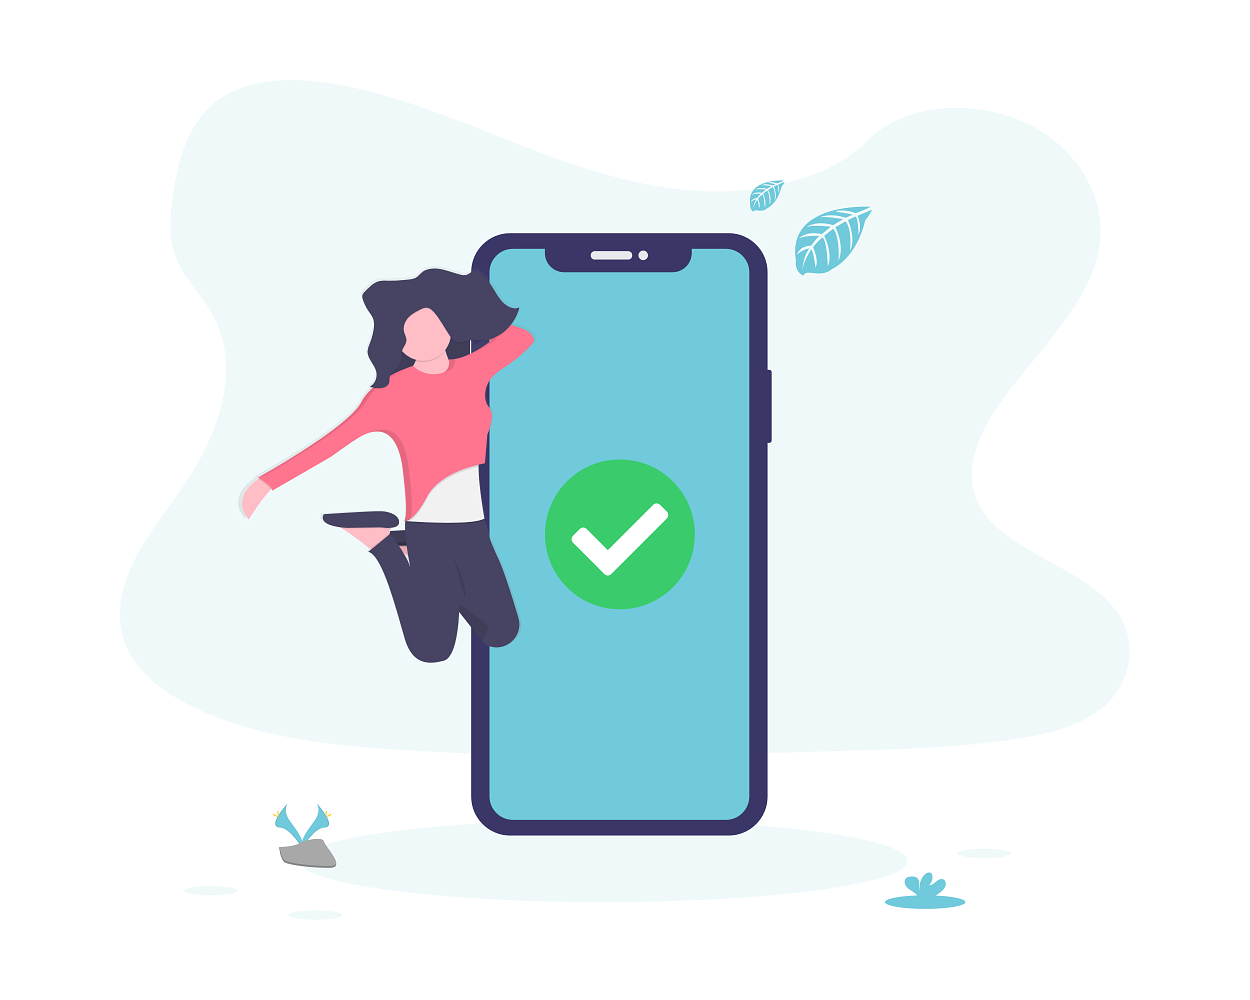
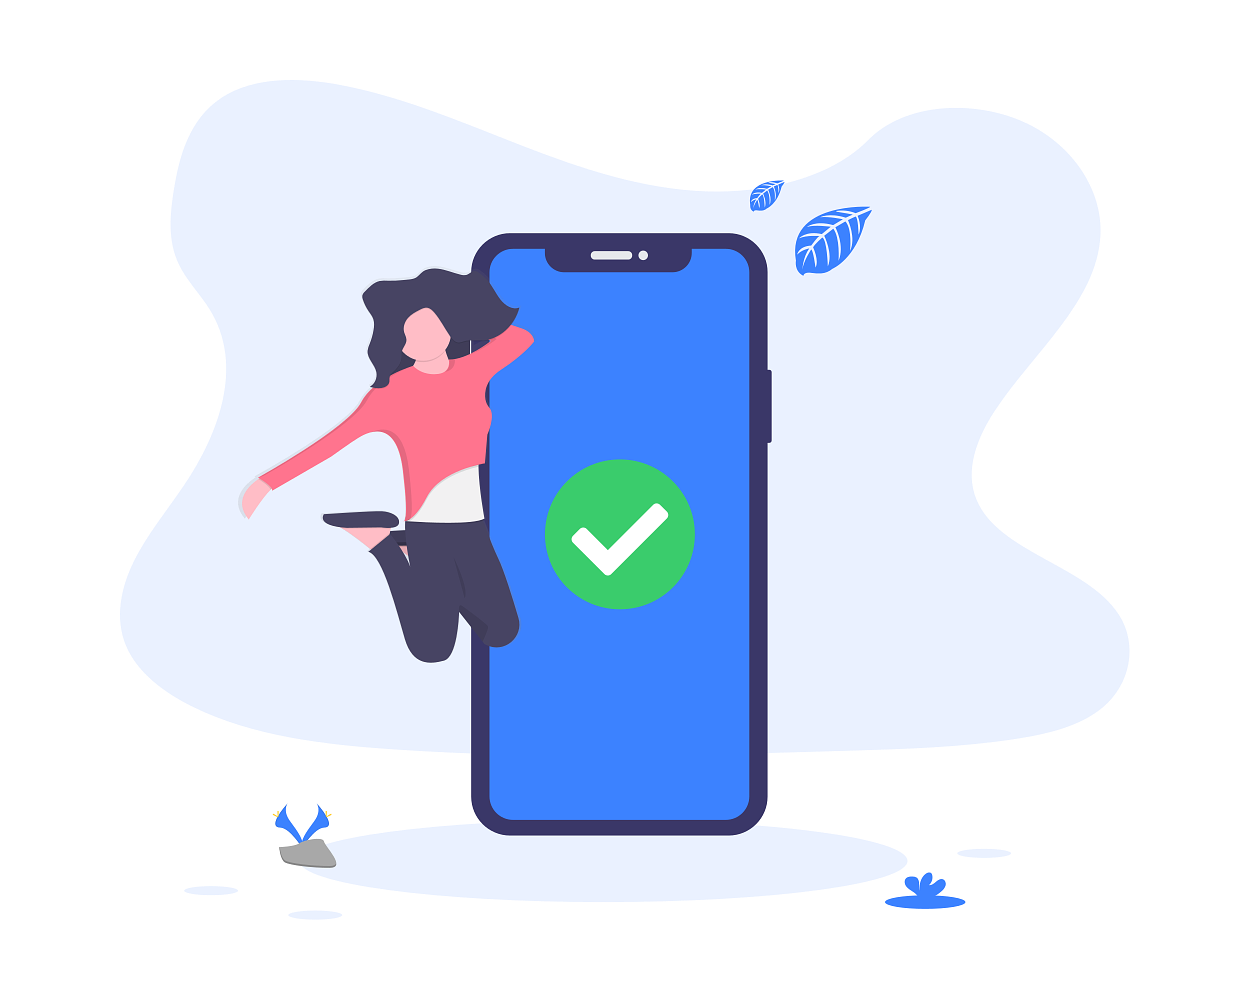
Mikypan-
Prueba con queries [thanks, direccion]

diff --git a/src/pages/thanks/thanks.scss b/src/pages/thanks/thanks.scss
@@ -1,15 +1,32 @@
 $tablet: "(min-width: 768px) and (max-width: 1023px)";
 $desktop: "(min-width: 1024px)";
+$mobilemax: "(min-width: 415px)";
+.container{
+ 
+    font-family: Roboto;
+    
 
-
+}
 #imagenHeader{
+    position: relative;
     width: 100%;
-    margin-top: -2em;
-    min-width: 1000px;
-    height: auto;
-    margin-left: -60%;
+    margin-top:8px;
+    min-width: 414px;
+    min-height: 10%;
+    margin-right: -80px;
+    left: -25px ;
+    //right:-20px;
+
+    @media #{$mobilemax} {
+    
+    min-width: 580px;
+    
+    }
+
+       
     @media #{$tablet} {
-        display: none;
+        height: 83%;
+        min-width: 823px;
       }
     
       @media #{$desktop} {
@@ -18,25 +35,28 @@ $desktop: "(min-width: 1024px)";
 }
 
 #imagenBienvenida{
-    margin-top: -15em;
-    height: 100%;
-    //width: 40%;
-    margin-left: 20%;
+    margin-top: 0px;
+    height: 60%;
+    width: 100%;
+   // margin-left: 20%;
     padding-top: 0;
+    
+
     @media #{$tablet} {
-        margin-top: -5em;
-        height: 50%;
+        position: relative;
+        top:-70px;
+        margin-top: 0px;
+        height: 70%;
         //width: 40%;
-        margin-left: 24%;
-        margin-top: -4em;
-        padding-top: 0;
+       // margin-left: 24%;
+          padding-top: 0;
     }
   
     @media #{$desktop} {
         margin-top: -10em;
         height: 40%;
         //width: 40%;
-        margin-left: 30%;
+       // margin-left: 30%;
         margin-top: -4em;
         padding-top: 0;
     }
@@ -44,18 +64,20 @@ $desktop: "(min-width: 1024px)";
 
 #ThankYou{
     text-align: center;
-    font-size:20px;
-    color:#394e62;
+    font-size:21px;
+    color: #0f1950;
+    
+
     @media #{$tablet} {
         text-align: center;
-        font-size:30px;
-        color:#394e62;
+        font-size:35px;
+        color: #0f1950;
       }
     
       @media #{$desktop} {
         text-align: center;
         font-size:30px;
-        color:#394e62;
+        color: #0f1950;
       }
 }
 #contenedorImagenPrincipal{
@@ -71,25 +93,37 @@ $desktop: "(min-width: 1024px)";
       }
 }
 #TextWelcome {
-  font-size: 12px;
+  font-size: 13px;
+  color: #0f1950;
 
   @media #{$tablet} {
-    font-size: 20px;
-    color:#394e62;
+    font-size: 25px;
+    color: #0f1950;
   }
 
   @media #{$desktop} {
     font-size: 20px;
-    color:#394e62;
+    color: #0f1950;
   }
 }
 
-#GetStartedFull{
-    text-align: center;
-    margin-top: -6em;
+#Next a{
+    font-size: 15px;
+    font-weight: bold;
+    position: relative;
+    top: 10px;
+    left:220px;
+    color: #3c82ff;
+    @media #{$mobilemax} {
+        left:260px;
+    }
+    
     @media #{$tablet} {
-        margin-top: -20em;
+        font-size: 20px;
+        position: relative;
         text-align: center;
+        left:540px;
+        top: -30px;
       }
     
       @media #{$desktop} {

diff --git a/src/pages/thanks/thanks.html b/src/pages/thanks/thanks.html
@@ -6,11 +6,11 @@
 -->
 
 
-<ion-content padding>
+<ion-content class="container" padding>
     <ion-grid> 
       <ion-row>
         <ion-col>
-            <img id="imagenHeader" src="../assets/img/login/51535789_368844417280505_5161081609113305088_n.png" alt="">
+            <img id="imagenHeader" src="../assets/img/thanks/header.png" alt="">
          <!-- <div id="imagenHeader">
 
           </div>-->
@@ -19,8 +19,8 @@
       <ion-row>
         <ion-col id="contenedorImagenPrincipal" >
           <img id="imagenBienvenida" src="../assets/img/thanks/confirm.png" alt="">
-          <h2 id="ThankYou">Thank You!</h2>
-          <p id="TextWelcome">Users Will be able to go live, chat and meet people near by</p>
+          <p id="ThankYou">Thank you!</p>
+          <p id="TextWelcome">welcome to our beautiful app!</p>
          <!-- <div id="imageContentThanks">
           </div>
           <h2 id="ThankYou">Thank You!</h2>
@@ -29,8 +29,8 @@
         </ion-col>
       </ion-row>
       <ion-row>
-        <ion-col id="GetStartedFull">
-            <button expand="full" fill="outline" size="large"  ion-button color="primary"  (click)="goBackHome()"  > GET STARTED </button>
+        <ion-col id="Next">
+            <button class="link-sign-up" (click)="goBackHome()" > <a > NEXT </a></button>
         </ion-col>
       </ion-row>
     </ion-grid>

diff --git a/src/pages/direccion/direccion.scss b/src/pages/direccion/direccion.scss
@@ -1,12 +1,14 @@
 
 h1{ 
-    font-size: 20px;
+    font-family: -apple-system, BlinkMacSystemFont, 'Segoe UI', Roboto, Oxygen, Ubuntu, Cantarell, 'Open Sans', 'Helvetica Neue', sans-serif;
+    font-weight: bold;
+    font-size: 25px;
     text-align: center;
-    color: #444864;
+    color: #0f1950;
     padding-top: 2em;
 }
 #TextWelcome{
-    color:#394e62;
+    color: #0f1950;
     font-size: 14px;
     padding-top: 0.5em;
 }

diff --git a/src/pages/direccion/direccion.html b/src/pages/direccion/direccion.html
@@ -11,7 +11,7 @@
   <ion-grid> 
     <ion-row>
       <ion-col>
-        <h1>Connect With People around the World</h1>
+        <h1>Connect with people around the world</h1>
       </ion-col>
     </ion-row>
     <ion-row>
